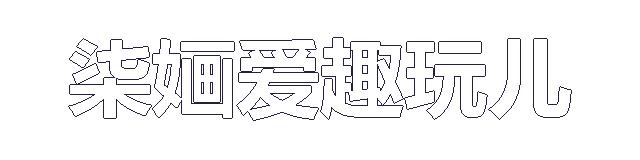
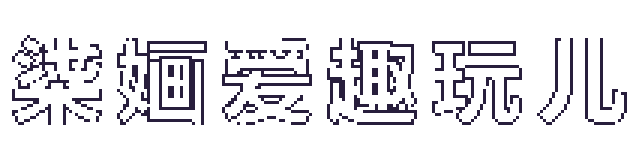
style: 启动页去副标题、标题改SVG像素字体管线、启动提示加呼吸动效

Changed region(s): [[0.0, 0.2188, 1.0, 0.7812], [0.0, 0.4688, 0.0312, 0.5]]

diff --git a/assets/scripts/components/ui/LaunchPage.ts b/assets/scripts/components/ui/LaunchPage.ts
@@ -1,4 +1,4 @@
-import { _decorator, Color, Component, EventTouch, Graphics, Label, Node, Sprite, SpriteFrame, UITransform, Widget, resources } from 'cc';
+import { _decorator, Color, Component, EventTouch, Graphics, Label, Node, Sprite, SpriteFrame, Tween, tween, UIOpacity, UITransform, Vec3, Widget, resources } from 'cc';
 import { GameManager } from '../../managers/GameManager';
 import { GameState } from '../../types/GameTypes';
 import { UIHelper } from '../../utils/UIHelper';
@@ -14,10 +14,7 @@ const BADGE_TOP = 24;                     // 适龄标识距顶
 const BADGE_RIGHT = 24;                   // 适龄标识距右
 const TITLE_WIDTH = 560;                  // 像素标题位图宽（源图640x160等比缩小）
 const TITLE_HEIGHT = 140;                 // 像素标题位图高（等比 560/640*160）
-const TITLE_Y = 150;                      // 标题中心y（中部偏上）
-const SUBTITLE_WIDTH = 520;               // 副标题宽
-const SUBTITLE_HEIGHT = 30;               // 副标题高
-const SUBTITLE_Y = 40;                    // 副标题中心y（标题下方约25px）
+const TITLE_Y = 120;                      // 标题中心y（中部偏上；去掉副标题后微调下移补位）
 const HINT_Y = -140;                      // "点击任意启动"提示y
 const ADVICE_PANEL_WIDTH = 620;           // 健康忠告面板宽
 const ADVICE_PANEL_HEIGHT = 150;          // 健康忠告面板高
@@ -29,7 +26,6 @@ const DIALOG_HEIGHT = 780;                // 适龄提示弹窗高
 // 颜色常量
 const COLOR_BACKGROUND = new Color(18, 26, 42, 255);      // 启动页深蓝黑背景
 const COLOR_GOLD = new Color(255, 200, 60, 255);          // 金色边框/标题
-const COLOR_SUBTITLE = new Color(150, 160, 180, 255);     // 副标题灰色
 const COLOR_HINT = new Color(255, 215, 0, 255);           // 提示金色
 const COLOR_PANEL_FILL = new Color(16, 20, 34, 210);      // 健康忠告面板半透明深色
 const COLOR_BODY_TEXT = new Color(255, 255, 255, 255);    // 正文白色
@@ -70,6 +66,7 @@ export class LaunchPage extends Component {
     private _ageBadgeNode: Node | null = null;   // 适龄标识节点
     private _dialogNode: Node | null = null;     // 适龄提示弹窗节点
     private _maskNode: Node | null = null;       // 弹窗遮罩节点
+    private _hintNode: Node | null = null;       // "点击任意处启动游戏"提示节点（呼吸动效）
 
     // 状态
     private _isStarting: boolean = false;        // 防止重复启动
@@ -154,7 +151,7 @@ export class LaunchPage extends Component {
         this._ageBadgeNode = badgeNode;
     }
 
-    // ========== 2. 像素风标题位图 + 副标题 ==========
+    // ========== 2. 像素风标题位图 ==========
 
     private createTitleSprite(): void {
         const titleNode = new Node("TitleSprite");
@@ -183,25 +180,6 @@ export class LaunchPage extends Component {
                 sprite.spriteFrame = spriteFrame;
             }
         });
-
-        // 副标题（标题下方）
-        const subNode = new Node("SubTitleLabel");
-        subNode.parent = this.node;
-
-        const subTransform = subNode.addComponent(UITransform);
-        subTransform.setContentSize(SUBTITLE_WIDTH, SUBTITLE_HEIGHT);
-
-        // 水平居中 + 垂直居中偏移（标题下方）
-        const subWidget = subNode.addComponent(Widget);
-        subWidget.isAlignHorizontalCenter = true;
-        subWidget.isAlignVerticalCenter = true;
-        subWidget.verticalCenter = SUBTITLE_Y;
-        subWidget.updateAlignment();
-
-        const subLabel = subNode.addComponent(Label);
-        subLabel.string = "CAT PROTECT PLAN";
-        subLabel.fontSize = 20;
-        subLabel.color = COLOR_SUBTITLE;
     }
 
     // ========== 3. "点击任意启动"提示 ==========
@@ -209,6 +187,7 @@ export class LaunchPage extends Component {
     private createStartHint(): void {
         const hintNode = new Node("StartHint");
         hintNode.parent = this.node;
+        this._hintNode = hintNode;
 
         const transform = hintNode.addComponent(UITransform);
         transform.setContentSize(400, 50);
@@ -233,6 +212,24 @@ export class LaunchPage extends Component {
         label.string = "点击任意处启动游戏";
         label.fontSize = 30;
         label.color = COLOR_HINT;
+
+        // 呼吸脉冲动效：缩放 1↔1.06 + 透明度 255↔175，周期约1.2s，循环播放
+        // 两条tween并行（scale作用于节点、opacity作用于UIOpacity组件），合并为单条
+        // repeatForever链注册在hintNode上，Tween.stopAllByTarget(hintNode)即可整体停止
+        const hintOpacity = hintNode.addComponent(UIOpacity);
+        hintOpacity.opacity = 255;
+
+        const scalePulse = tween(hintNode)
+            .to(0.6, { scale: new Vec3(1.06, 1.06, 1) })
+            .to(0.6, { scale: new Vec3(1, 1, 1) });
+        const opacityPulse = tween(hintOpacity)
+            .to(0.6, { opacity: 175 })
+            .to(0.6, { opacity: 255 });
+
+        tween(hintNode)
+            .parallel(scalePulse, opacityPulse)
+            .repeatForever()
+            .start();
     }
 
     /**
@@ -528,6 +525,11 @@ export class LaunchPage extends Component {
         // 卸载根节点触摸监听
         this.node.off(Node.EventType.TOUCH_END, this.onRootTouchEnd, this);
 
+        // 停止"点击任意处启动游戏"呼吸动效
+        if (this._hintNode && this._hintNode.isValid) {
+            Tween.stopAllByTarget(this._hintNode);
+        }
+
         // 卸载适龄标识触摸监听
         if (this._ageBadgeNode && this._ageBadgeNode.isValid) {
             this._ageBadgeNode.off(Node.EventType.TOUCH_END, this.onAgeBadgeTouchEnd, this);
@@ -553,8 +555,13 @@ export class LaunchPage extends Component {
         if (this._dialogNode && this._dialogNode.isValid) {
             this._dialogNode.destroy();
         }
+        // 停止"点击任意处启动游戏"呼吸动效
+        if (this._hintNode && this._hintNode.isValid) {
+            Tween.stopAllByTarget(this._hintNode);
+        }
         this._ageBadgeNode = null;
         this._dialogNode = null;
         this._maskNode = null;
+        this._hintNode = null;
     }
 }
